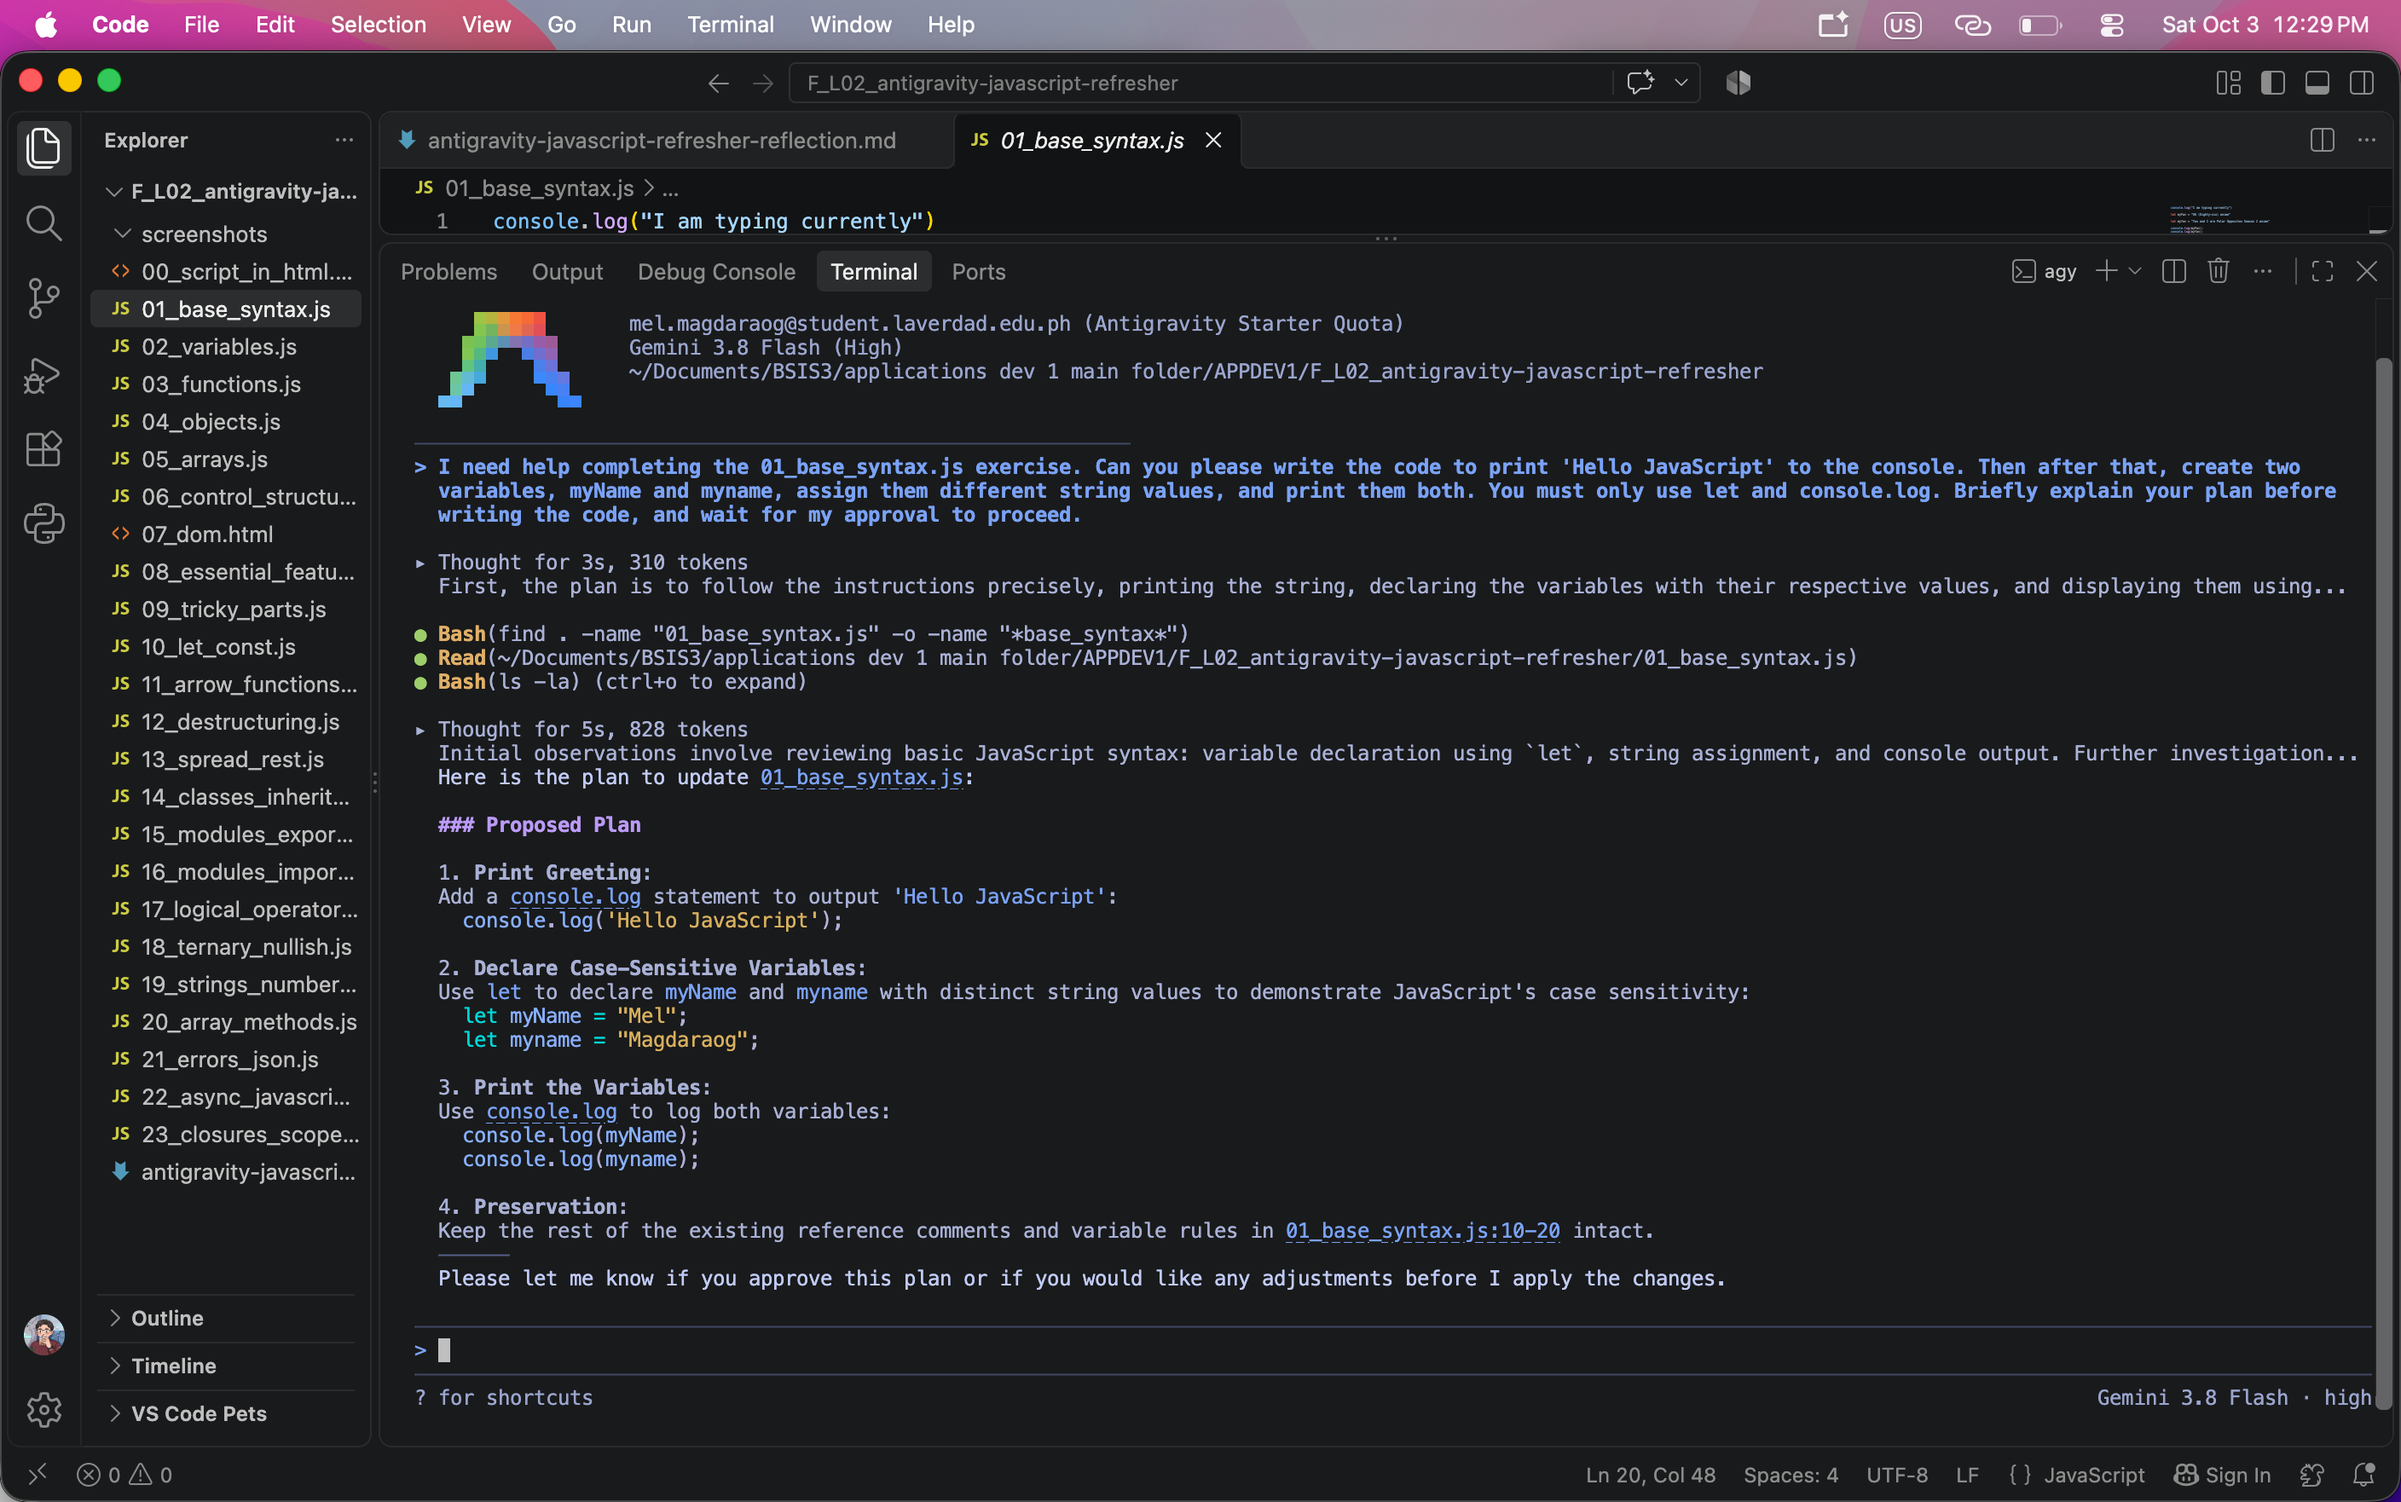
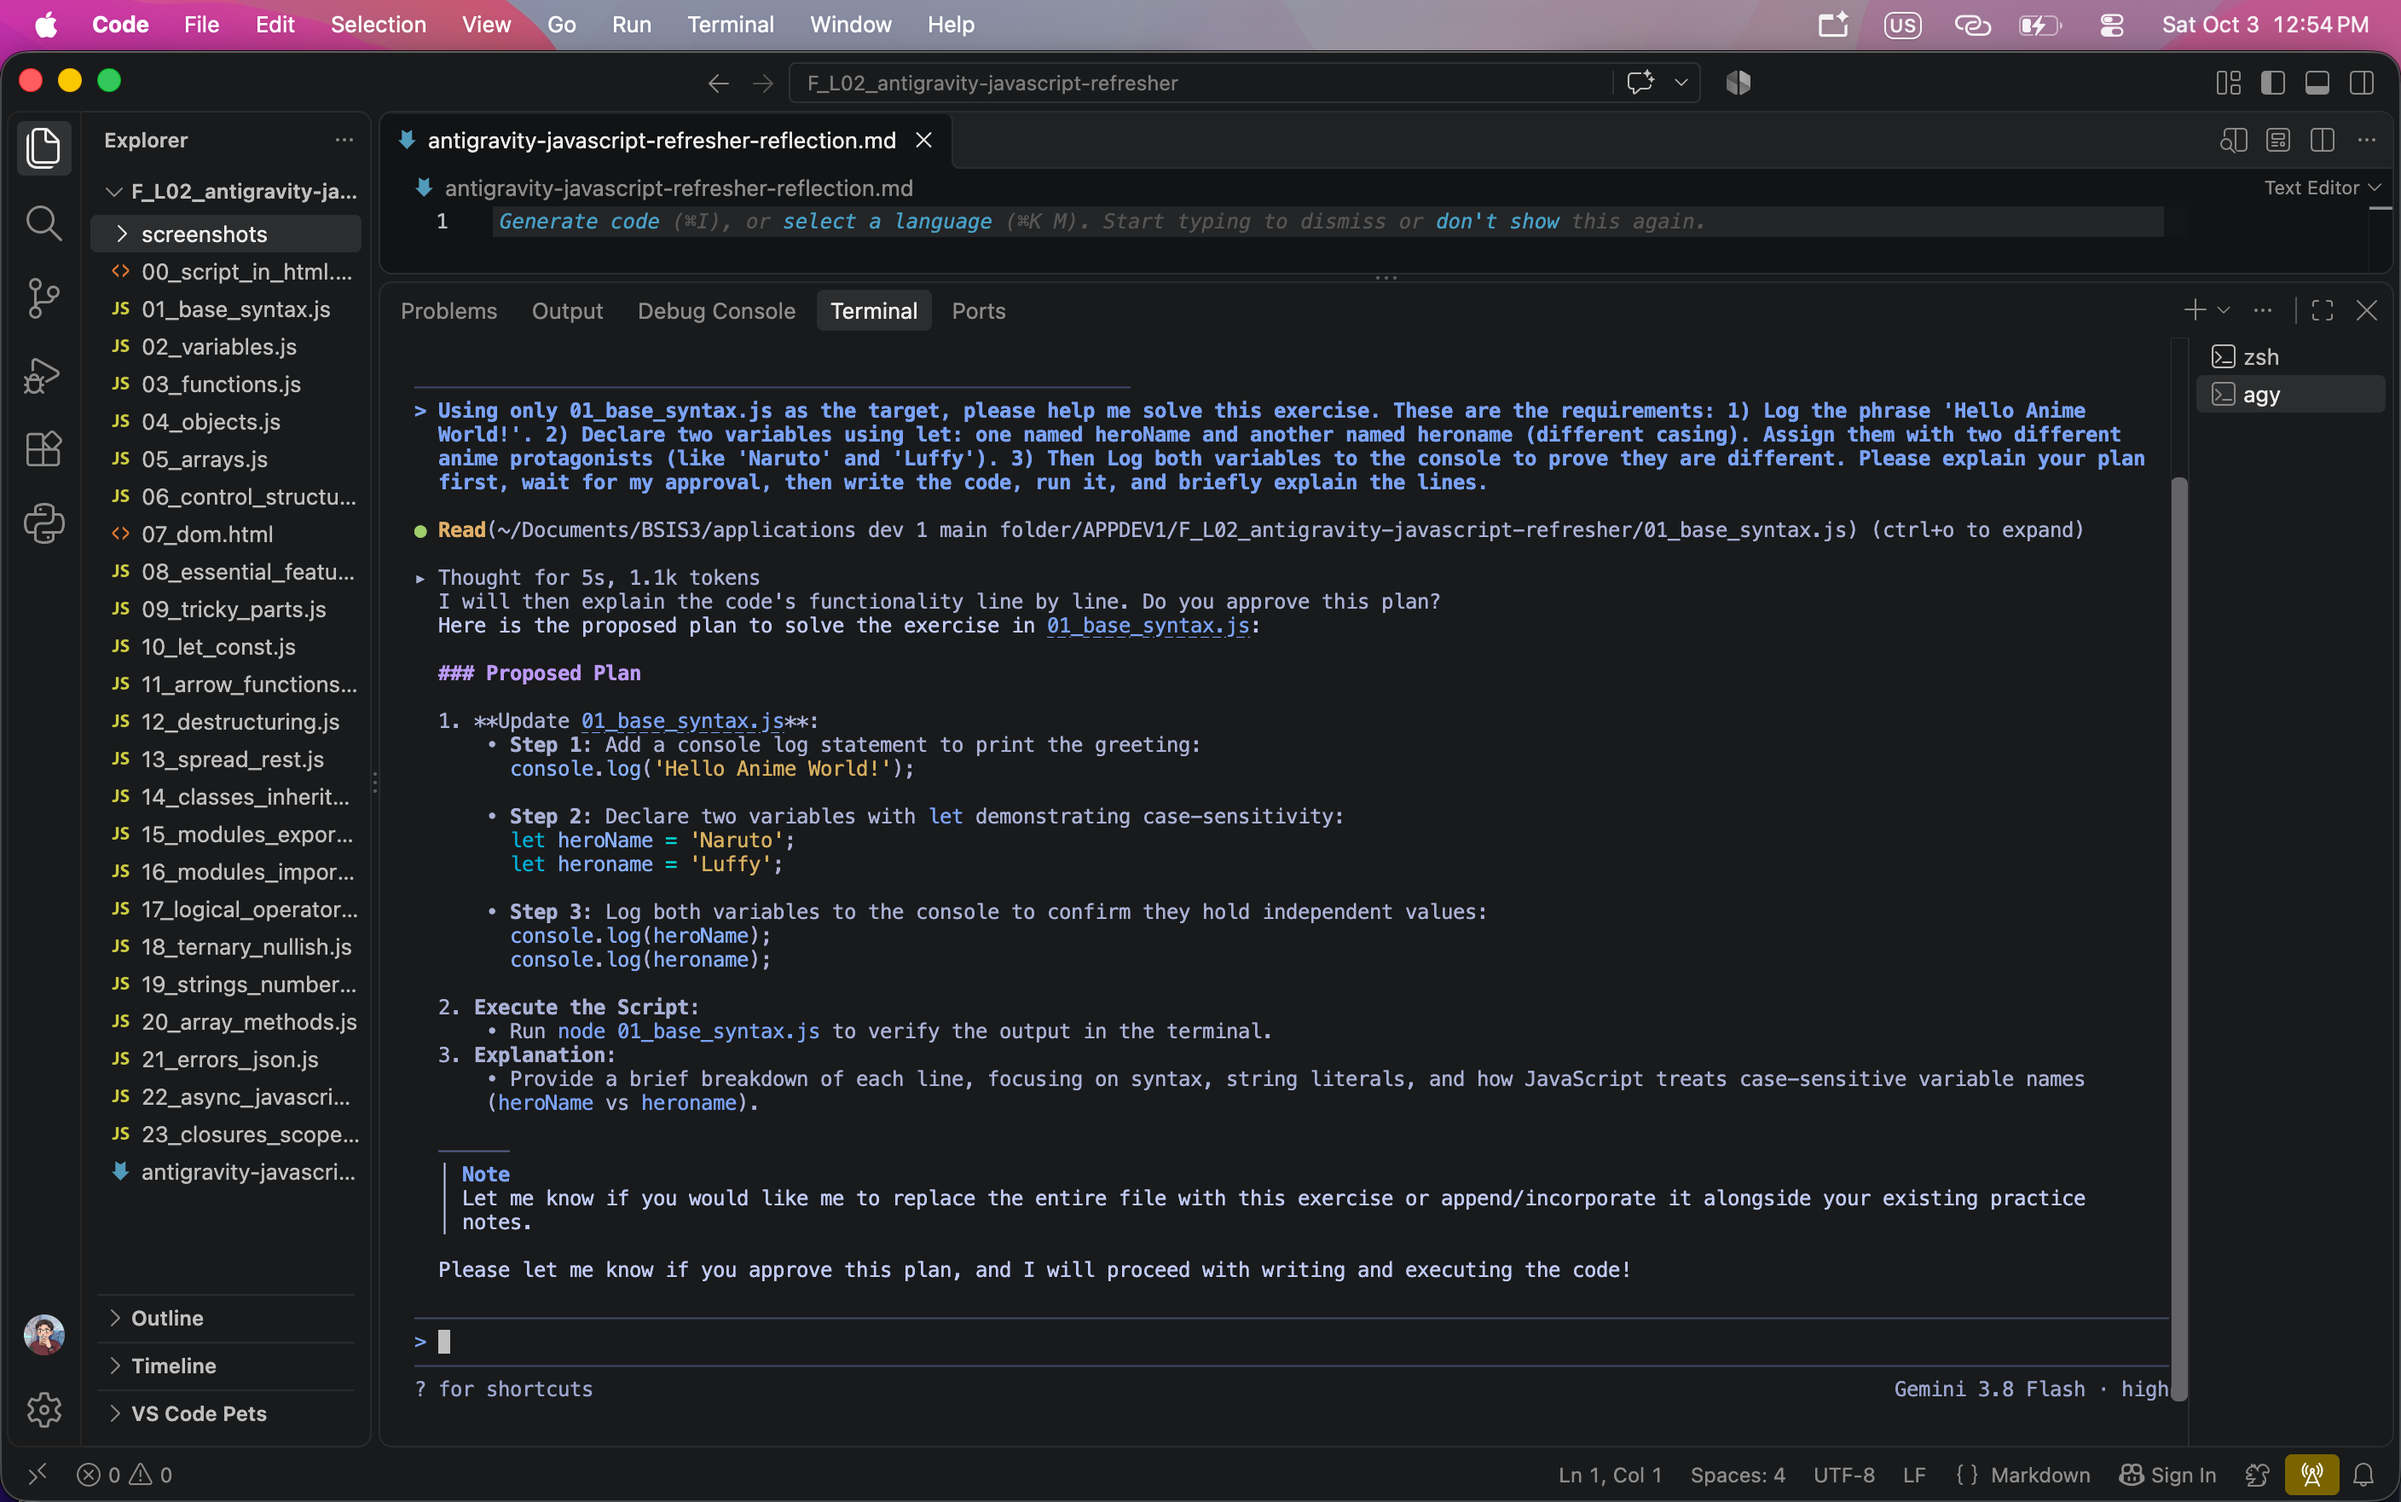
Done with 01_base_syntax.js part

diff --git a/F_L02_antigravity-javascript-refresher/antigravity-javascript-refresher-reflection.md b/F_L02_antigravity-javascript-refresher/antigravity-javascript-refresher-reflection.md
@@ -1,9 +1,13 @@
 ### 01_base_syntax.js
-***Prompt***
-I need help completing the 01_base_syntax.js exercise. Can you please write the code to print 'Hello JavaScript' to the console. Then after that, create two
-  variables, myName and myname, assign them different string values, and print them both. You must only use let and console.log. Briefly explain your plan before
-  writing the code, and wait for my approval to proceed.
+**Prompt:**
+Using only 01_base_syntax.js as the target, please help me solve this
+  exercise. These are the requirements: 1) Log the phrase 'Hello Anime
+  World!'. 2) Declare two variables using let: one named heroName and
+  another named heroname (different casing). Assign them with two
+  different anime protagonists (like 'Naruto' and 'Luffy'). 3) Then Log
+  both variables to the console to prove they are different. Please
+  explain your plan first, wait for my approval, then write the code, run
+  it, and briefly explain the lines
 
 **Reflection:**
-what i understand is pwedeng gamitin si antigravity para gumawa ng code at magprint ng Hello Havascript sa console, tas pwede nyang gawin na gumawa ng dalawang variables, myName at myname, tas yun, yun yung nasa ppt eh, kaya ganun, pwede rin pala na pahintayin sya and wait ng permission ng user bago gumawa ng code si agy
-
+I used anime as the subject for this, at binigyan ko sya ng requirements, like pagdedeclare ng two variables, pag log ng phrase na hellow anime world, at pag log both variables sa console para maiprove na iba sila
